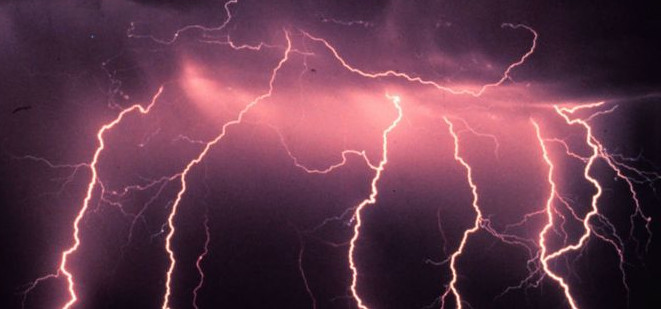
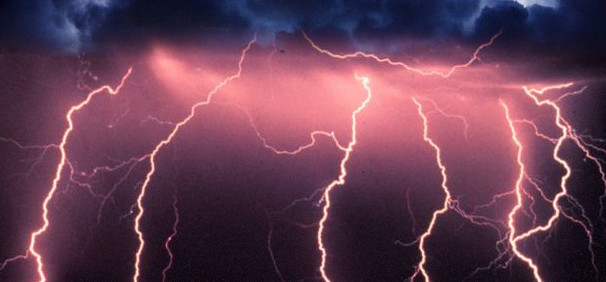
added gimp edited backgrounds and more css

diff --git a/client/src/componants/developer/developer.css b/client/src/componants/developer/developer.css
@@ -12,3 +12,17 @@
   color: black;
   text-shadow: black 1px 1px;
 }
+.spishstories {
+  box-shadow: 10px 10px 5px rgb(0, 0, 0);
+  -moz-box-shadow: 10px 10px 5px rgb(0, 0, 0);
+  -webkit-box-shadow: 10px 10px 5px rgb(0, 0, 0);
+  -khtml-box-shadow: 10px 10px 5px rgb(0, 0, 0);
+  opacity: 1;
+}
+.scrollablesolarsystem {
+  box-shadow: 10px 10px 5px rgb(0, 0, 0);
+  -moz-box-shadow: 10px 10px 5px rgb(0, 0, 0);
+  -webkit-box-shadow: 10px 10px 5px rgb(0, 0, 0);
+  -khtml-box-shadow: 10px 10px 5px rgb(0, 0, 0);
+  opacity: 1;
+}

diff --git a/client/src/componants/developer/developerComponent.js b/client/src/componants/developer/developerComponent.js
@@ -26,6 +26,7 @@ class Developer extends Component {
             </div>
             <div className="col">
               <h1 className="website">Scrollable Solar System</h1>
+
               <a href="https://scrollablesolarsystem.netlify.app/">
                 <img
                   className="spishstories"

diff --git a/client/src/componants/summary/summaryComponant.js b/client/src/componants/summary/summaryComponant.js
@@ -9,6 +9,7 @@ class Summary extends Component {
             <div className="col mt-5">
               <h1 className="whoAmI">Who am I?</h1>
             </div>
+            
           </div>
           <div className="row">
             <div className="col-7">

diff --git a/client/src/componants/header/header.css b/client/src/componants/header/header.css
@@ -4,7 +4,7 @@
   background-image: url("../../images/header.jpg");
   background-size: cover;
   background-repeat: no-repeat;
-  height: 500px;
+  height: 300px;
 }
 
 .picture {

diff --git a/client/src/componants/footer/footer.css b/client/src/componants/footer/footer.css
@@ -4,4 +4,5 @@
   background-image: url("../../images/footerbackground.jpg");
   background-size: 100%;
   background-repeat: no-repeat;
+  height: 250px;
 }
